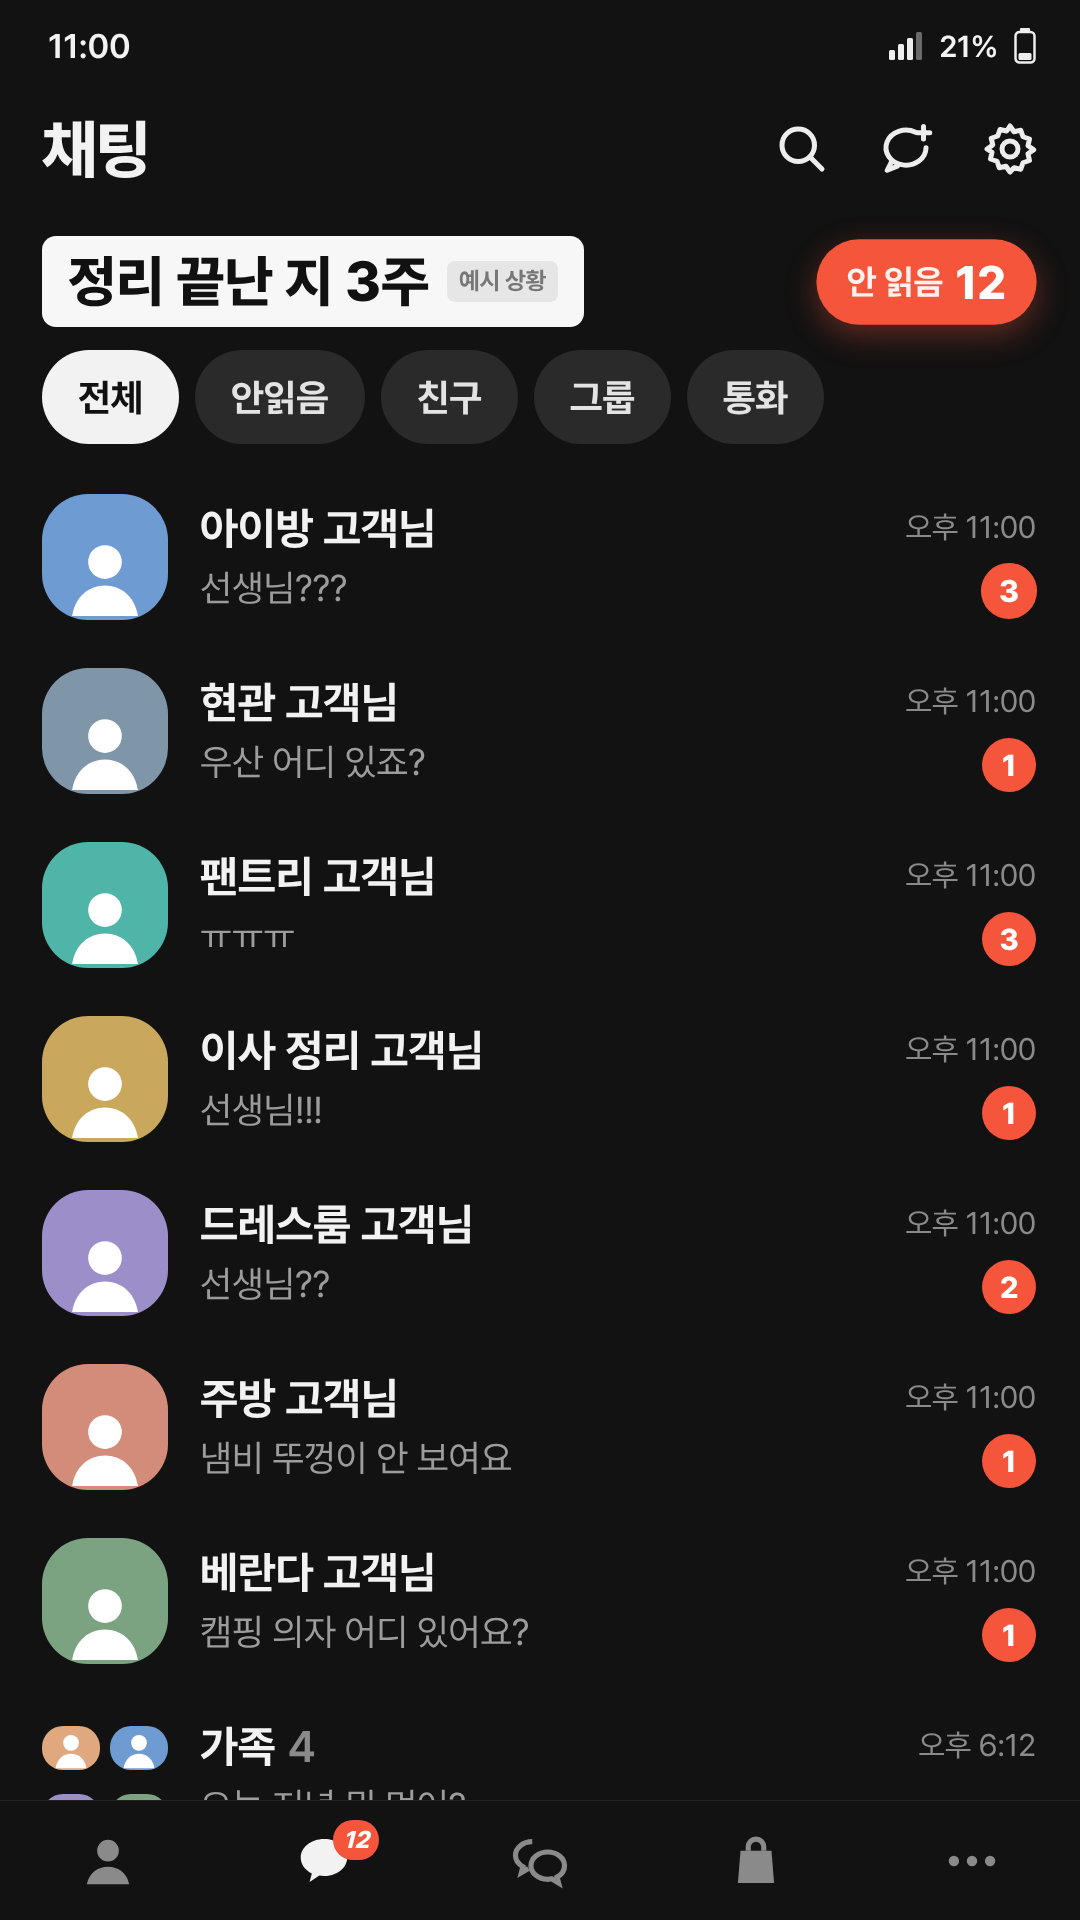
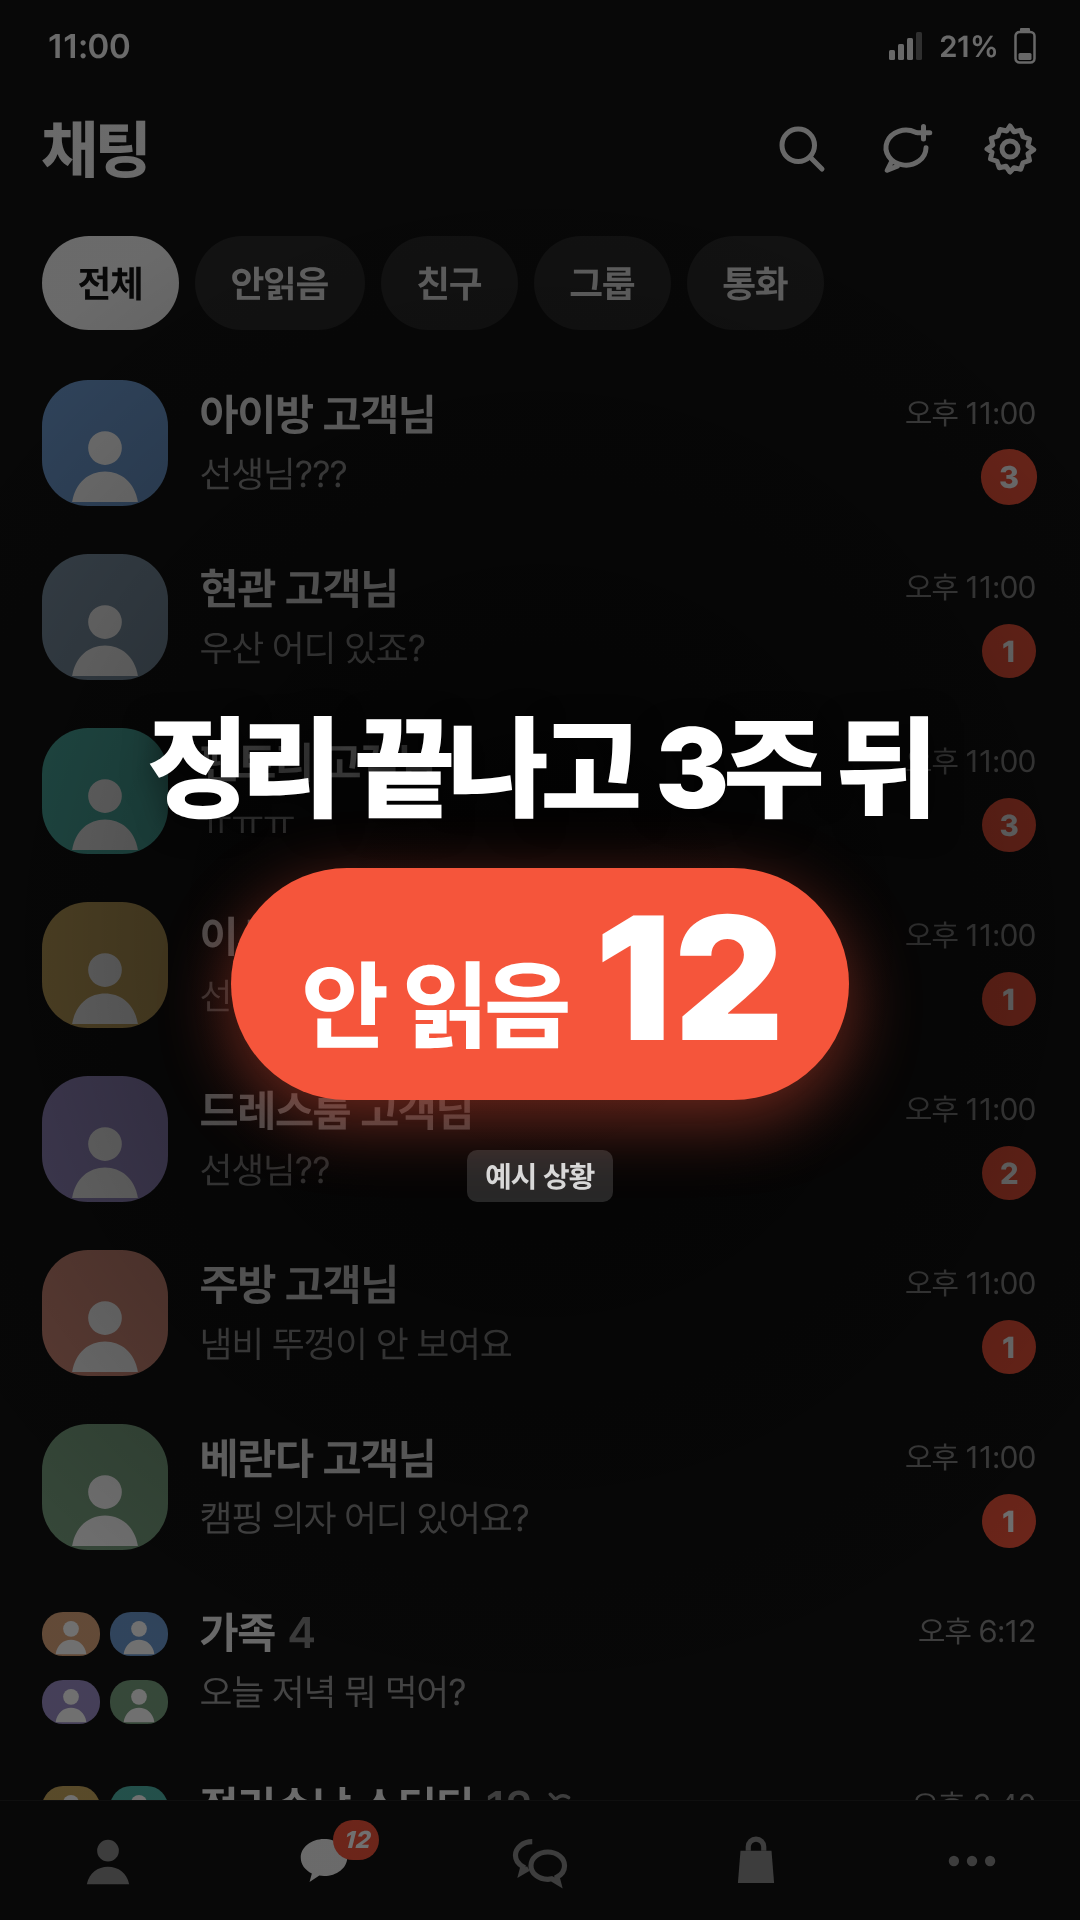
받은 지도 넣기 화면 (/objetdo/get/) · 백업에 쓰는 곳 담기 · 카톡 폭탄 표지 (#309)
- /objetdo/get/ → v2 #/get '받은 지도 넣기': 카톡·인스타 안이면 먼저 브라우저로, 아이폰 사파리면 홈 화면에 먼저 추가, 그다음 파일 고르기 → 확인 → 넣기
- 백업 화면 [받는 분께 보낼 안내 복사] · 빈 기기 첫 소개에 '대신 만들어 받은 지도 파일이 있어요 →'
- 백업에 쓰는 곳(집·매장)을 담아 복구하면 만든 쪽과 같은 모드로 · 보통 복구도 같게, 바뀌면 확인 창에 알림
- 베타 2026.11.11.6 · 로드맵 ✅ #309 · promo '카톡 폭탄' 표지 교체

Claude-Session: https://claude.ai/code/session_01D364GFJe8vW1WUdJNr2vnt

diff --git a/get/index.html b/get/index.html
@@ -1,0 +1,31 @@
+<!DOCTYPE html>
+<html lang="ko">
+<head>
+<meta charset="UTF-8">
+<meta name="viewport" content="width=device-width, initial-scale=1, viewport-fit=cover">
+<!-- 받은 지도 넣기 (11/11): 대신 만들어 보낸 지도(백업 PDF)를 받는 사람이 링크 하나로 넣는 화면으로 바로 간다 (v2/#/get).
+     주소 뒤 ?mode=home 은 그대로 넘긴다 (v2가 쓰는 곳을 집으로 맞춘다). 카톡·인스타 미리보기는 이 <head> 글을 읽는다 -->
+<script>location.replace('../v2/' + location.search + '#/get');</script>
+<meta name="robots" content="noindex">
+<meta name="theme-color" content="#F5F1EA">
+<link rel="icon" type="image/png" sizes="32x32" href="../favicon-32.png?v=15">
+<link rel="icon" type="image/svg+xml" href="../favicon.svg?v=15">
+<title>오브젯도 · 받은 지도 넣기</title>
+<meta name="description" content="대신 만들어 받은 지도 파일을 이 폰에 넣어요. 가입 없이, 파일 하나 고르면 끝이에요.">
+<meta property="og:type" content="website">
+<meta property="og:site_name" content="오브젯도">
+<meta property="og:title" content="오브젯도 · 받은 지도 넣기">
+<meta property="og:description" content="대신 만들어 받은 지도 파일을 이 폰에 넣어요. 가입 없이, 파일 하나 고르면 끝이에요.">
+<meta property="og:url" content="https://johnsongarage.co.kr/objetdo/get/">
+<meta property="og:image" content="https://johnsongarage.co.kr/objetdo/og-image.png?v=23">
+<meta property="og:image:width" content="1200">
+<meta property="og:image:height" content="630">
+<meta property="og:locale" content="ko_KR">
+<meta name="twitter:card" content="summary_large_image">
+<noscript><meta http-equiv="refresh" content="0; url=../v2/#/get"></noscript>
+<style>html,body{margin:0;height:100%;background:#F5F1EA;color:#2B2723;font-family:-apple-system,BlinkMacSystemFont,"Apple SD Gothic Neo","Malgun Gothic",sans-serif}main{min-height:100%;display:flex;flex-direction:column;align-items:center;justify-content:center;gap:10px;text-align:center}a{color:inherit;font-size:15px}</style>
+</head>
+<body>
+<main><b style="font-size:20px">오브젯도</b><span>받은 지도 넣는 화면을 여는 중…</span><a href="../v2/#/get">바로 열기</a></main>
+</body>
+</html>

diff --git a/v2/index.html b/v2/index.html
@@ -45,7 +45,7 @@
         } catch (e) { document.documentElement.dataset.mode = 'store'; }
     })();
 </script>
-<link rel="stylesheet" href="app.css?v=2026.11.11.5">
+<link rel="stylesheet" href="app.css?v=2026.11.11.6">
 </head>
 <body>
 <!-- PC(가로 1024px 이상)에서만 보이는 왼쪽 메뉴 — find.js paintSide가 채운다 -->
@@ -66,15 +66,15 @@
 
 
 <!-- 화면 파일: 고치면 ?v= 를 함께 올린다 (배포 직후 옛 파일과 섞이지 않게) -->
-<script src="app.js?v=2026.11.11.5"></script>
-<script src="domain.js?v=2026.11.11.5"></script>
-<script src="find.js?v=2026.11.11.5"></script>
-<script src="zone.js?v=2026.11.11.5"></script>
-<script src="make.js?v=2026.11.11.5"></script>
-<script src="inbox.js?v=2026.11.11.5"></script>
-<script src="check.js?v=2026.11.11.5"></script>
-<script src="print.js?v=2026.11.11.5"></script>
-<script src="settings.js?v=2026.11.11.5"></script>
+<script src="app.js?v=2026.11.11.6"></script>
+<script src="domain.js?v=2026.11.11.6"></script>
+<script src="find.js?v=2026.11.11.6"></script>
+<script src="zone.js?v=2026.11.11.6"></script>
+<script src="make.js?v=2026.11.11.6"></script>
+<script src="inbox.js?v=2026.11.11.6"></script>
+<script src="check.js?v=2026.11.11.6"></script>
+<script src="print.js?v=2026.11.11.6"></script>
+<script src="settings.js?v=2026.11.11.6"></script>
 <script>boot();</script>
 </body>
 </html>

diff --git a/v2/find.js b/v2/find.js
@@ -641,6 +641,7 @@ function renderIntro() {
             <div class="cta">
                 <button type="button" class="btn btn-p split" data-act="sample">예시로 먼저 둘러보기<span aria-hidden="true">→</span></button>
                 <button type="button" class="btn btn-s split" data-act="addPhoto">${home ? '내 수납장 사진으로 시작' : '내 창고 사진으로 시작'}<span aria-hidden="true">→</span></button>
+                <button type="button" class="tlink intro-get" data-act="go" data-to="#/get">대신 만들어 받은 지도 파일이 있어요 →</button>
                 <p class="fine">가입 없이 이 ${DEV}에만 저장돼요.<br>지도 대신 만들기 · 원격 3곳 ₩19,000부터 · <a href="#/service" data-act="go" data-to="#/service">문의</a></p>
             </div>
         </main>`;

diff --git a/docs/ROADMAP.md b/docs/ROADMAP.md
@@ -178,6 +178,7 @@
 - ✅ **PC 인쇄 미리보기 다듬기** (11/11, 가르시아 "PC에서 인쇄 누르면 크기 조절이 밑에 붙어 있어 맨 아래로 내려야 보인다 · 처음 보자마자 깨져 보인다", 배포 #305): 원인 ① 크기 조절(장수·− 100% +·크게 보기)이 쪽 그림 옆 칸 맨 아래에 붙어, 쪽이 여러 줄이 되면 화면 밖으로 밀림 (1440×900에서 909px, 1280×800에선 1785px) ② 미리보기 칸에 크게 보기용 큰 그림(폭 840~1680점)을 그대로 넣고 화면에서 네 배쯤 한 번에 줄여 글씨·가는 선이 끊김 → PC는 크기 줄을 미리보기 위 한 줄로(내려도 머리글 밑에 붙어 따라옴) · 100%면 한 줄에 세 쪽이 칸 폭에 꽉 차게(1440에서 6쪽이 한 화면) · 칸에는 반씩 나눠 곱게 줄인 작은 그림을 따로 두고 크기를 바꾸면 그 폭으로 다시 · 큰 그림은 '크게 보기'에서만 · 폰은 배치 그대로(칸 그림만 곱게)
 - ✅ **움직임 2순위 4가지** (11/11, 가르시아 "움직임 2순위도 진행해줘", 배포 #306): ① 화면 바뀔 때 — 새 화면이 짧게 서서히(투명도만, 사진 자리는 그대로 · 같은 화면을 다시 그릴 땐 그대로) ② 빼기·지우기 — 물건 빼기, 칸 지우기(지도 물건 창·구역 고치기), 자리 미정에서 칸에 넣기·빼기, 오래된 칸 '확인': 빠진 줄은 접히며(아래 줄이 스르륵 올라옴), 사진 위 칸은 작아지며 흐려짐 (데이터는 바로 바뀌고 모습만 복사해 사라짐) ③ 탭 바꾸기 — 점검 탭(아래 '발주 목록 보기' 단추로 바꿔도), 목록 정렬, 지도 보기 방식, 인쇄 양식·사진·정렬 같은 고르기 줄, 옮기기 사진 탭: 밑줄·고른 칸이 옆으로 미끄러지고 탭 아래 내용은 서서히 ④ 되돌리기 — 되살아난 물건·칸 줄은 바탕이 잠깐 빛나고 사진 위 칸은 빨간 테두리가 잠깐 · 구역 고치기 [되돌리기]는 돌아온 칸만 빛나고 없어지는 칸은 작아지며(번호만 바뀐 건 그대로) · 폰 '동작 줄이기'면 모두 끔 · 버전 2026.11.11.4
 - ✅ **움직임 3순위 + PC 점검 탭 흔들림** (11/11, 가르시아 "움직임 3순위도 진행해줘 · 점검탭 피씨에서 세기·발주목록 탭 옮길 때마다 UI 정렬이 달라 어색", 배포 #307): ① PC 점검 — 원인: 윈도처럼 스크롤 막대가 보이는 PC에서 목록이 긴 [세기]에만 막대(15px)가 생겨, 머리 줄·제목·탭·도움말이 통째로 7~8px 왼쪽으로 밀렸다가 짧은 [발주 목록]에서 돌아옴 → 스크롤 막대 자리를 늘 비워 둠(scrollbar-gutter, 앱 전체 · 비운 자리는 바탕색과 같음 · 폰·맥은 영향 없음) ② 세기 −/+ — 숫자가 톡, 모자라게 되면 숫자가 빨강으로 스르륵·'부족'이 스르륵·[발주 목록] 숫자도 톡 (물건 창 재고 −/+도 숫자 톡·'몇 개 모자라요' 스르륵) ③ '더 보기' — 지도 칸 줄 'N개 더 보기', 칸 화면 자주 쓰는 물건 'N개 더 보기': 숨은 것이 하나씩 차례로 ④ 사진 넣은 직후 — 새 사진 화면은 이미 사진이 쓱(새 사진 포커스 작업) + [완료]로 지도에 오면 새 사진이 서서히 · 폰 '동작 줄이기'면 모두 끔 · 버전 2026.11.11.5
+- ✅ **받은 지도 넣기 화면** (11/11, 가르시아 "사진 한 장 목록 주시면 제가 만들어 보내 드려요라는 식으로 주고받는다고 가정하면 받아서 백업 복구를 해야 하잖아 · 이거 절차 간소화하는 페이지를 만들 수 있겠어?", 배포 #309): 보내는 링크 하나 `johnsongarage.co.kr/objetdo/get/` (집은 `?mode=home`) → 새 화면 '받은 지도 넣기'가 받는 분 기기에 맞춰 다음 할 일 하나만 보여 줌 — ① 카톡·인스타 안에서 열면 '먼저 브라우저로 열어 주세요'(그 앱 안에 넣으면 다음에 지도가 안 보임): 카톡은 [브라우저로 열기] 바로, 안드로이드는 [크롬으로 열기], 아이폰 인스타 등은 메뉴 위치 안내 + [주소 복사] ② 아이폰 사파리는 '홈 화면에 먼저 추가'(사파리와 홈 화면 앱은 저장이 따로 · 사파리는 오래 안 열면 지워질 수 있음) 3단계 → 홈 화면 앱 첫 화면의 '받은 지도 파일이 있어요' · '그냥 사파리에서 넣기'도 둠 ③ 그 밖엔 [받은 지도 파일 고르기] 하나 + 파일 찾는 곳(아이폰: 카톡 파일 → 공유 → ‘파일에 저장’ → ‘최근 항목’, 안드로이드: ‘다운로드’, PC: 다운로드 폴더) → 확인 창 '받은 지도: 사진 N장 · 물건 N개 · ○○에서 보냄' → [넣기] → 첫 화면 + '받은 지도를 넣었어요' · 그 기기에 쓰던 지도가 있으면 '받은 지도로 바뀌어요 · 지금 지도 먼저 백업하기' · 만드는 쪽: 백업 화면에 [받는 분께 보낼 안내 복사](링크 + 3단계 글 · 백업 파일과 같이 카톡으로) · 빈 기기 첫 소개에 '대신 만들어 받은 지도 파일이 있어요 →' · 백업에 쓰는 곳(집·매장)을 담아, 받은 쪽이 만든 쪽과 같은 모드로 열림(아이폰 홈 화면 앱은 링크의 ?mode=home이 안 넘어와 매장 모드로 열리던 틈) · 보통 복구도 같게, 쓰는 곳이 바뀌면 확인 창에 알려 줌 · 서버 없음(사진은 폰에만 그대로) · 파일은 카톡으로(인스타 DM은 파일을 못 보냄) · 버전 2026.11.11.6
 - 시연 샘플은 지금 있는 업종 샘플로 충분 — 새로 만들지 않는다
 
 ## 1. 살펴보기 + 첫 세팅 (11월)
